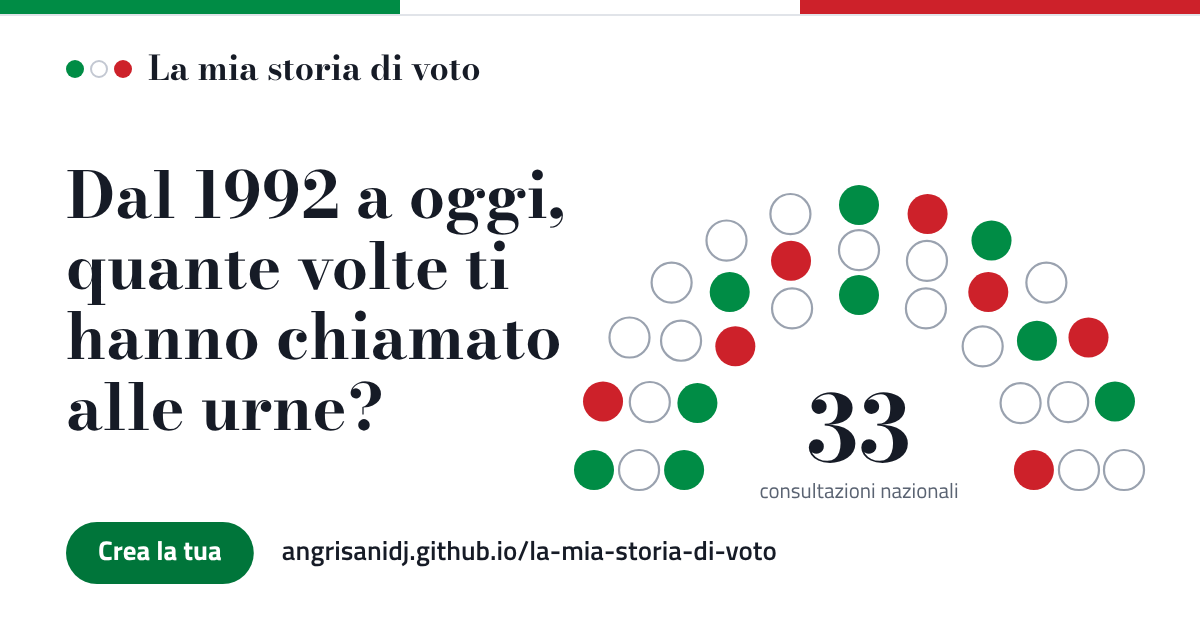
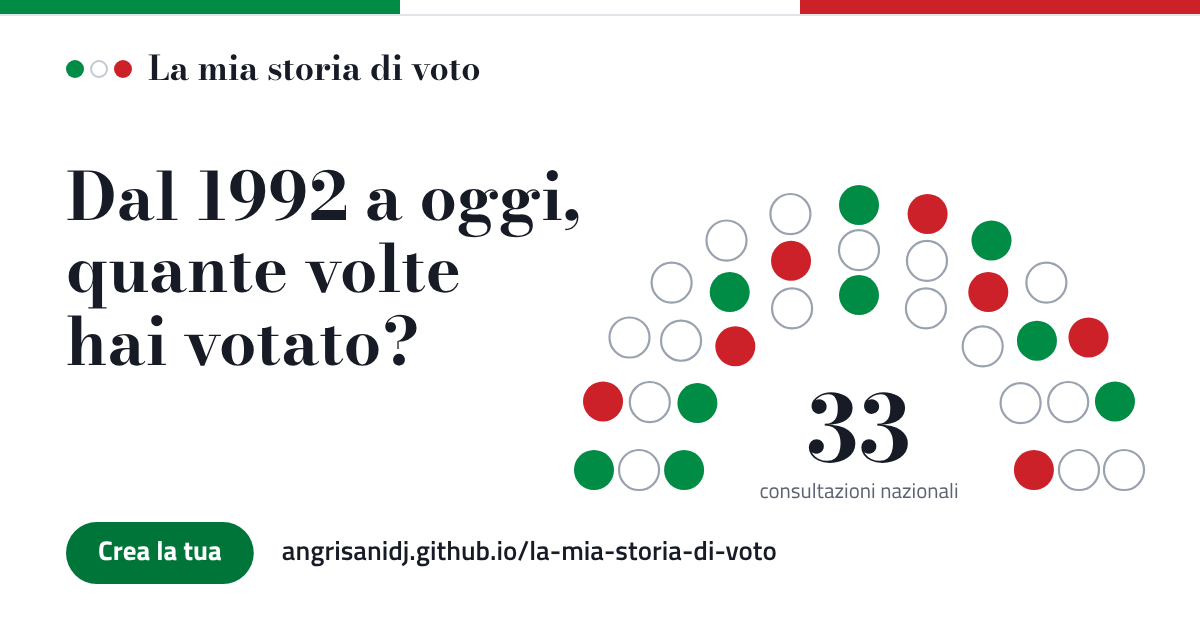
Titolo: «Dal 1992 a oggi, quante volte hai votato?»
Nuovo titolo nella pagina, nei metadati di condivisione, nel testo del
link condiviso e in tutte le immagini promozionali.

Claude-Session: https://claude.ai/code/session_012BfBFRLyxTWGEGyjoB9qwE

Changed region(s): [[0.0617, 0.2714, 0.4933, 0.6937], [0.0617, 0.2714, 0.0925, 0.3016]]

diff --git a/index.html b/index.html
@@ -9,7 +9,7 @@
 <title>La mia storia di voto</title>
 <meta name="description" content="Dal 1992 a oggi, a quali elezioni e referendum potevi votare? Inserisci quando sei nato e dove hai vissuto, segna come hai votato e scarica l’immagine da condividere. Tutto resta nel tuo browser.">
 <meta property="og:title" content="La mia storia di voto">
-<meta property="og:description" content="Dal 1992 a oggi, quante volte ti hanno chiamato alle urne? E come hai votato?">
+<meta property="og:description" content="Dal 1992 a oggi, quante volte hai votato? Ricostruisci la tua storia di voto.">
 <meta property="og:type" content="website">
 <meta property="og:url" content="https://angrisanidj.github.io/la-mia-storia-di-voto/">
 <meta property="og:site_name" content="La mia storia di voto">
@@ -18,10 +18,10 @@
 <meta property="og:image:type" content="image/png">
 <meta property="og:image:width" content="1200">
 <meta property="og:image:height" content="630">
-<meta property="og:image:alt" content="La mia storia di voto: dal 1992 a oggi, quante volte ti hanno chiamato alle urne? Un emiciclo di pallini nei colori della bandiera italiana.">
+<meta property="og:image:alt" content="La mia storia di voto: dal 1992 a oggi, quante volte hai votato? Un emiciclo di pallini nei colori della bandiera italiana.">
 <meta name="twitter:card" content="summary_large_image">
 <meta name="twitter:title" content="La mia storia di voto">
-<meta name="twitter:description" content="Dal 1992 a oggi, quante volte ti hanno chiamato alle urne? E come hai votato?">
+<meta name="twitter:description" content="Dal 1992 a oggi, quante volte hai votato? Ricostruisci la tua storia di voto.">
 <meta name="twitter:image" content="https://angrisanidj.github.io/la-mia-storia-di-voto/condivisione.png">
 <meta name="color-scheme" content="light">
 <meta name="theme-color" content="#ffffff">
@@ -259,7 +259,7 @@ select.campo { appearance: none; padding-right: 40px; background: #fff url("data
 <main>
 <section class="apertura">
   <div>
-    <h1>Dal 1992 a oggi, quante volte ti hanno chiamato alle urne?</h1>
+    <h1>Dal 1992 a oggi, quante volte hai votato?</h1>
     <p class="sommario">Indica quando sei nato e in quali comuni hai vissuto: ricostruiamo tutte le elezioni e i referendum a cui potevi partecipare. Segna come hai votato e scarica la tua storia di voto da condividere.</p>
     <a class="bottone" href="#s-nascita">Comincia</a>
     <ul class="patti">

diff --git a/app.js b/app.js
@@ -1044,7 +1044,7 @@ const MENU_CONDIVISIONE = !!navigator.share && !!window.matchMedia && window.mat
 function condividiLink() {
   const url = indirizzoLink(), fatto = 'Link copiato negli appunti.';
   if (!MENU_CONDIVISIONE) { copia(url, fatto); return; }
-  navigator.share({ title: 'La mia storia di voto', text: 'Dal 1992 a oggi, quante volte ti hanno chiamato alle urne? Ricostruisci la tua storia di voto.', url })
+  navigator.share({ title: 'La mia storia di voto', text: 'Dal 1992 a oggi, quante volte hai votato? Ricostruisci la tua storia di voto.', url })
     .then(() => annuncia(''), e => { if (!e || e.name !== 'AbortError') copia(url, fatto); });
 }
 function nomeFile(ext) { return `la-mia-storia-di-voto-${FORMATI[formatoScelto].file}.${ext}`; }
